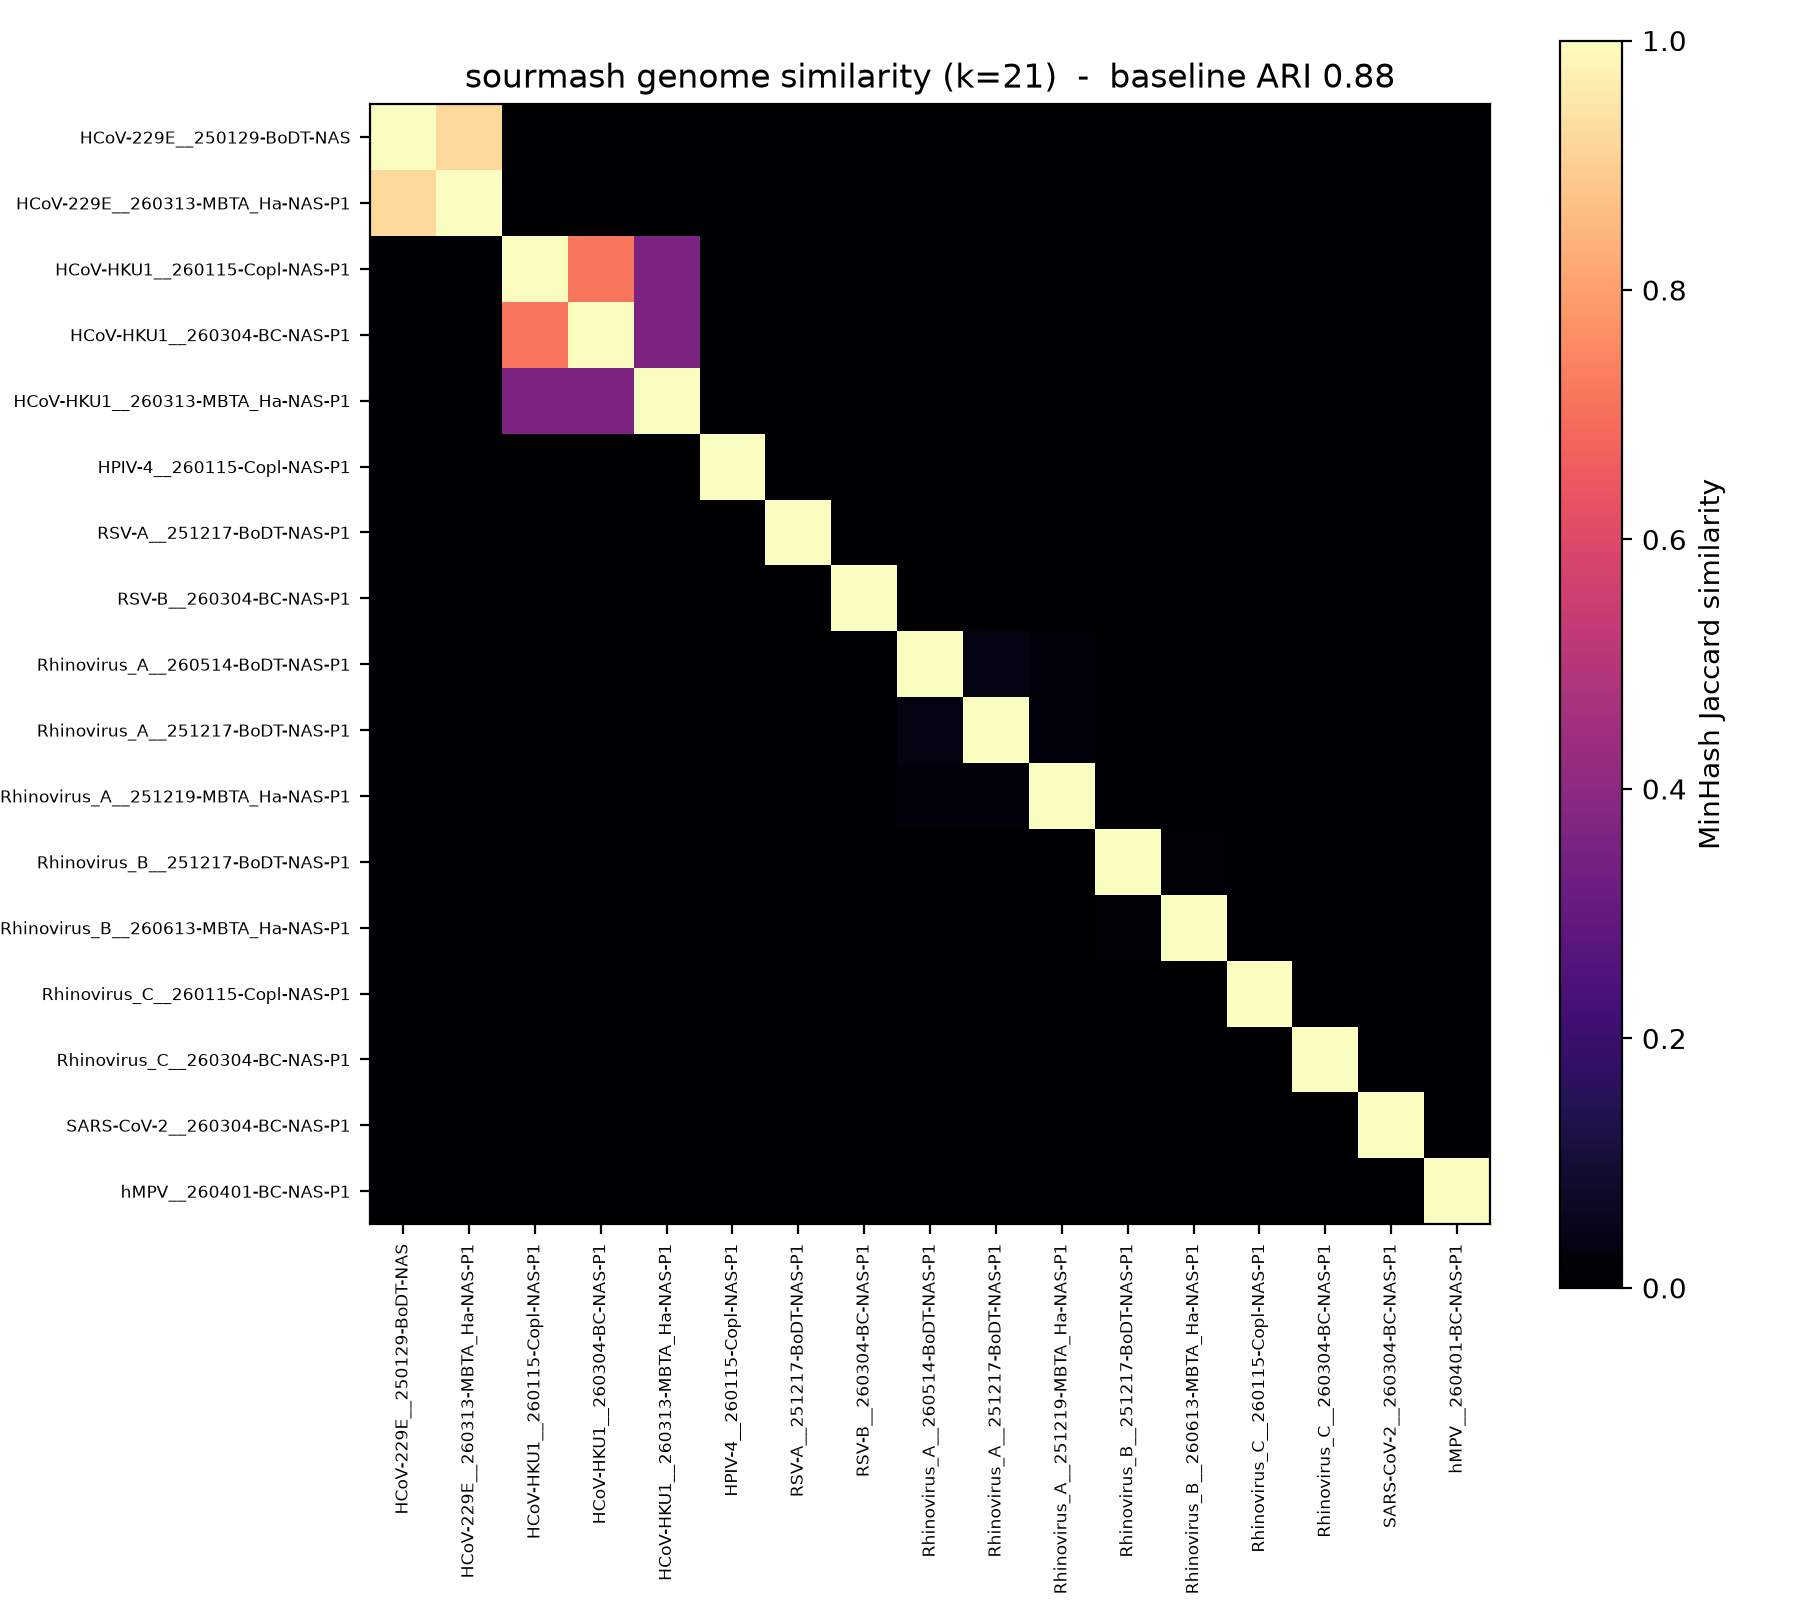
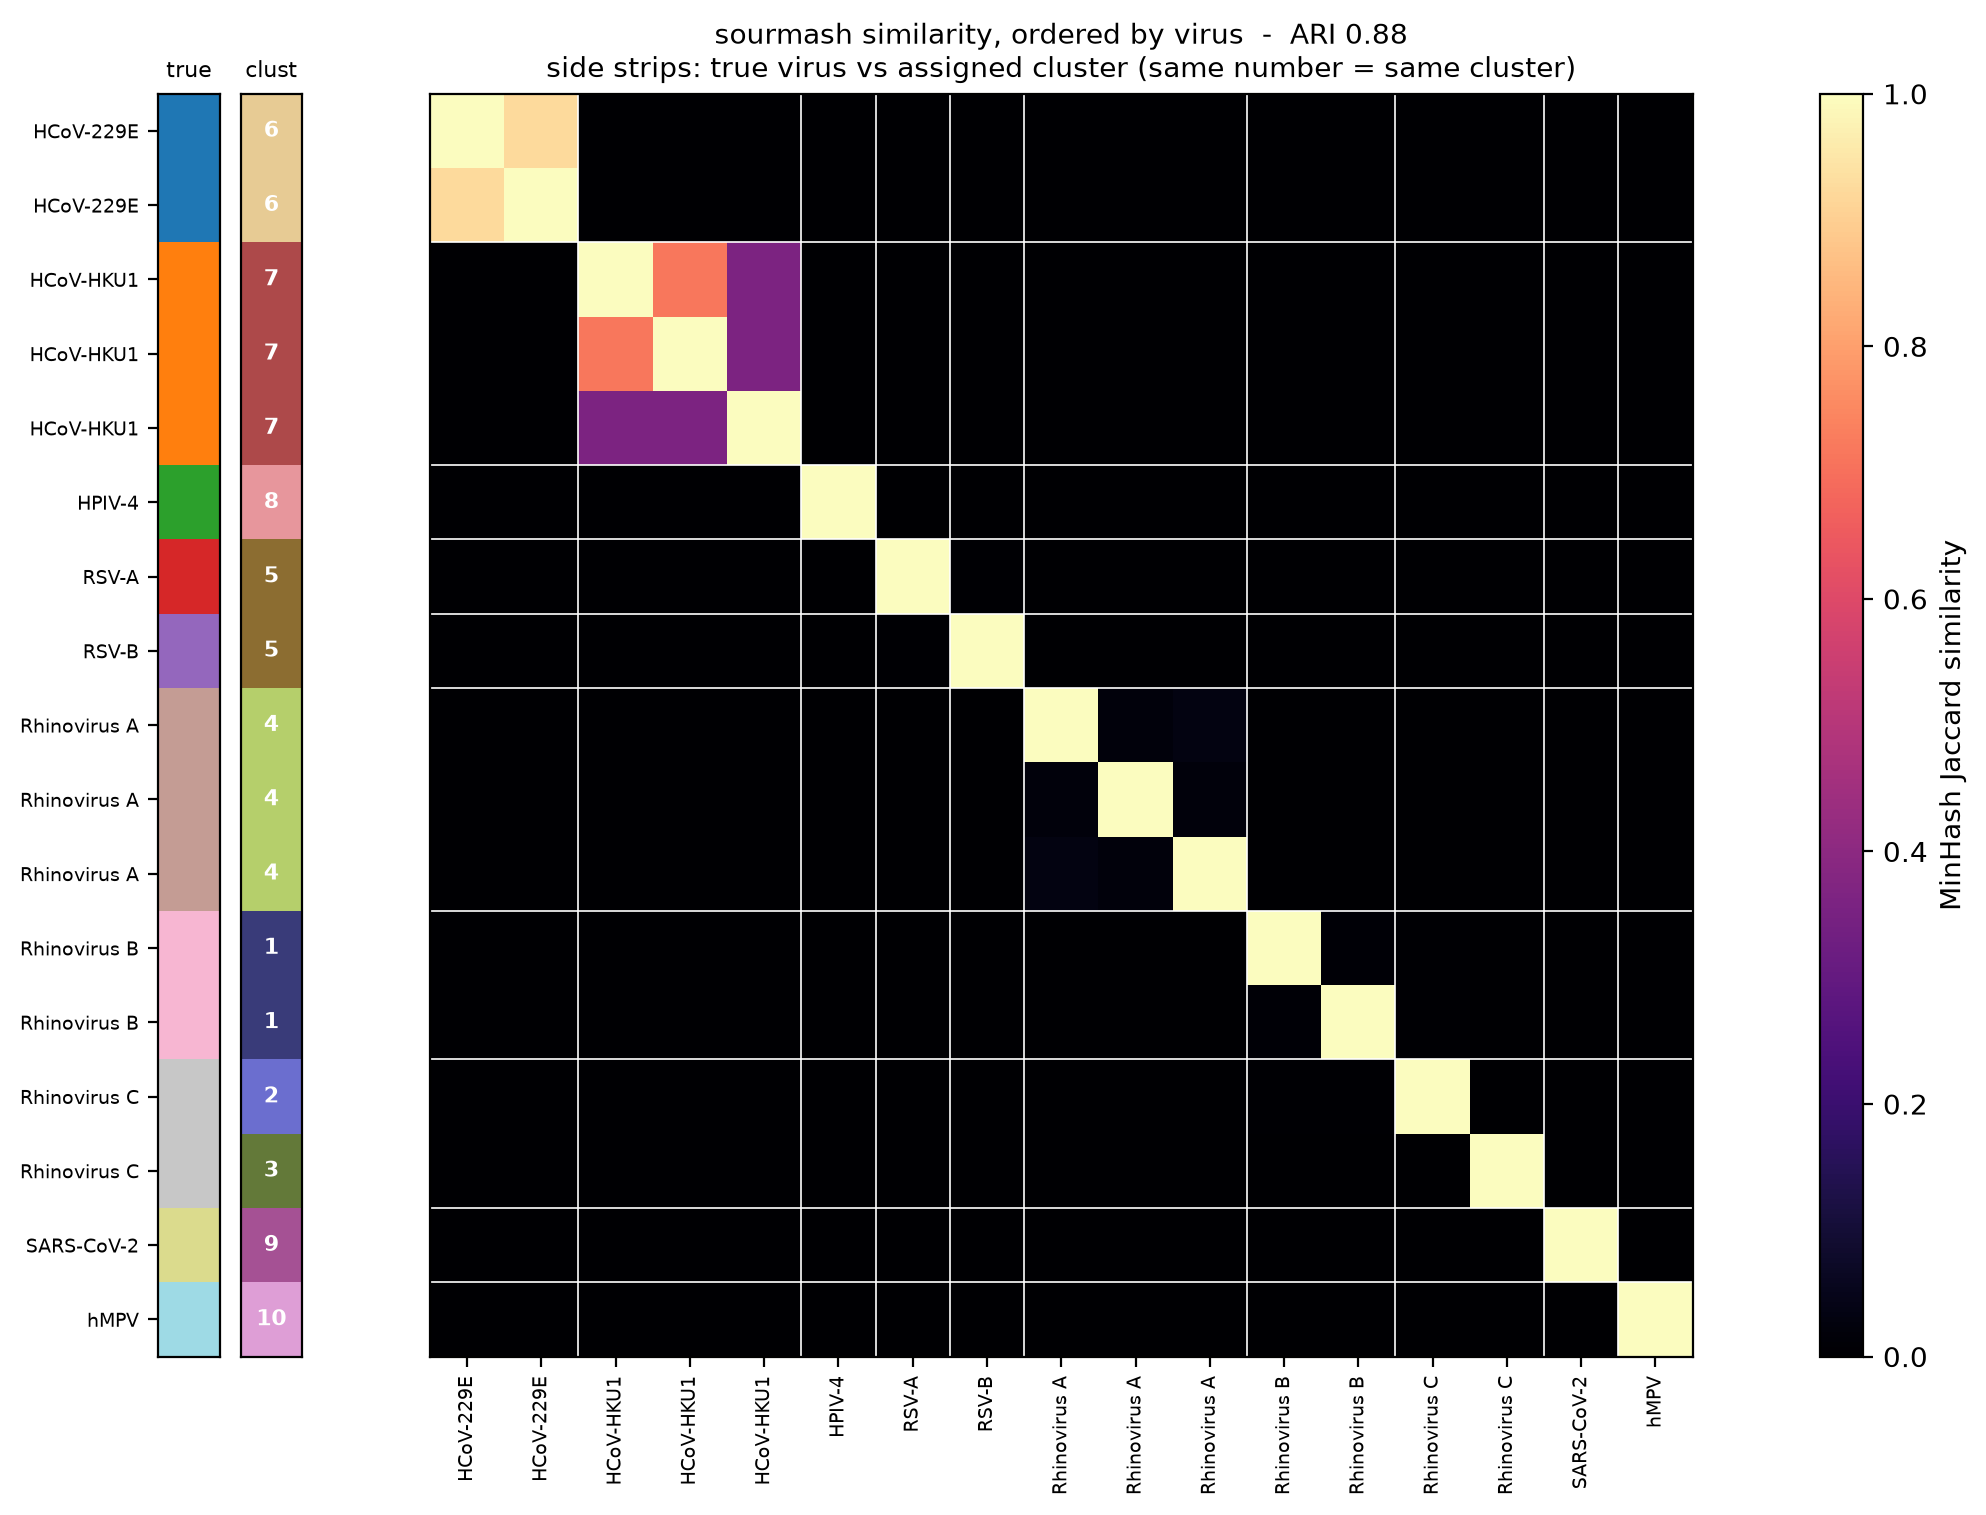
Improve fig3: order by virus, add true-vs-assigned-cluster side strips

Changed region(s): [[0.0, 0.0, 0.9956, 0.9927]]

diff --git a/part3_step2_sourmash.py b/part3_step2_sourmash.py
@@ -41,17 +41,37 @@ print(f"sourmash baseline:  ARI = {ari:.3f}   NMI = {nmi:.3f}\n")
 print("contingency (virus x cluster):")
 print(pd.crosstab(pd.Series(virus, name="virus"), pd.Series(clusters, name="cluster")).to_string())
 
-# heatmap ordered by virus
-order = np.argsort(virus)
+# heatmap ordered by virus then cluster, with side strips for true virus + assigned cluster
+varr = np.array(virus)
+order = np.lexsort((clusters, varr))
 So = S[np.ix_(order, order)]
 vlab = [virus[i] for i in order]
-fig, ax = plt.subplots(figsize=(9, 8))
-im = ax.imshow(So, cmap="magma", vmin=0, vmax=1)
-ax.set_xticks(range(len(vlab))); ax.set_xticklabels([labels[i] for i in order], rotation=90, fontsize=6)
-ax.set_yticks(range(len(vlab))); ax.set_yticklabels([labels[i] for i in order], fontsize=6)
-fig.colorbar(im, ax=ax, label="MinHash Jaccard similarity")
-ax.set_title(f"sourmash genome similarity (k={KMER})  -  baseline ARI {ari:.2f}")
-fig.tight_layout(); fig.savefig(f"{FIG}/fig3_sourmash_heatmap.png", dpi=200); plt.close(fig)
+clab = [int(clusters[i]) for i in order]
+uniq = sorted(set(virus)); vcode = np.array([uniq.index(v) for v in vlab])
+cuniq = sorted(set(clab));  ccode = np.array([cuniq.index(c) for c in clab])
+
+fig = plt.figure(figsize=(11, 8.2))
+gs = fig.add_gridspec(1, 4, width_ratios=[0.5, 0.5, 12, 0.35], wspace=0.05)
+ax_v, ax_c, ax_h, cax = (fig.add_subplot(gs[0, i]) for i in range(4))
+
+ax_v.imshow(vcode[:, None], aspect="auto", cmap="tab20")
+ax_v.set_xticks([]); ax_v.set_yticks(range(len(vlab))); ax_v.set_yticklabels(vlab, fontsize=7)
+ax_v.set_title("true", fontsize=8)
+
+ax_c.imshow(ccode[:, None], aspect="auto", cmap="tab20b")
+ax_c.set_xticks([]); ax_c.set_yticks([]); ax_c.set_title("clust", fontsize=8)
+for i, c in enumerate(clab):
+    ax_c.text(0, i, str(c), ha="center", va="center", fontsize=8, fontweight="bold", color="white")
+
+im = ax_h.imshow(So, cmap="magma", vmin=0, vmax=1)
+ax_h.set_yticks([])
+ax_h.set_xticks(range(len(vlab))); ax_h.set_xticklabels(vlab, rotation=90, fontsize=7)
+for b in [i for i in range(1, len(vlab)) if vlab[i] != vlab[i-1]]:
+    ax_h.axhline(b-0.5, color="white", lw=0.6); ax_h.axvline(b-0.5, color="white", lw=0.6)
+fig.colorbar(im, cax=cax, label="MinHash Jaccard similarity")
+ax_h.set_title(f"sourmash similarity, ordered by virus  -  ARI {ari:.2f}\n"
+               f"side strips: true virus vs assigned cluster (same number = same cluster)", fontsize=10)
+fig.savefig(f"{FIG}/fig3_sourmash_heatmap.png", dpi=200, bbox_inches="tight"); plt.close(fig)
 
 pd.DataFrame({"label": labels, "virus": virus, "cluster": clusters}).to_csv(
     f"{RES}/sourmash_clusters.csv", index=False)
